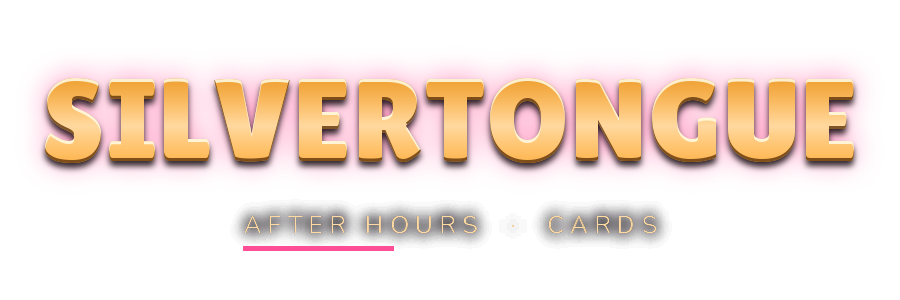
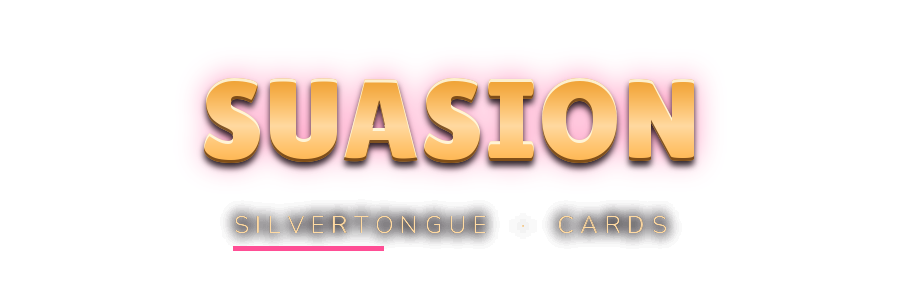
Rename Silvertongue: After Hours — Cards to SUASION, per Blaze
Persuasion as a formal art; the game is dialogue tactics (ops/PUNCHLIST.md,
Blaze 2026-09-21). project.godot's config/name, export_presets.cfg's
file_description, README and title.gd's comments now say SUASION.

The wordmark is a real re-render, not a string swap: ops/silvertongue_title.py
now bakes SUASION in gold foil as the big word, with SILVERTONGUE demoted to
the series line beneath it ("SILVERTONGUE · CARDS") — the franchise as
subtitle, the same shape VESPER and OCCUPANCY use for their parent's name.
Regenerated via `python3 ops/silvertongue_title.py` and installed to
assets/title/mark.png; card.png (the card-back art, no text on it) came back
byte-identical.

diff --git a/silvertongue-cards-godot/README.md b/silvertongue-cards-godot/README.md
@@ -1,4 +1,4 @@
-# SILVERTONGUE: AFTER HOURS — Cards (Godot 4.7 client)
+# SUASION (Godot 4.7 client)
 
 The card-battle client, rebuilt in Godot over the unchanged Python backend in
 `play/silvertongue-cards/backend` (FastAPI on :8929). The HTML prototype in
